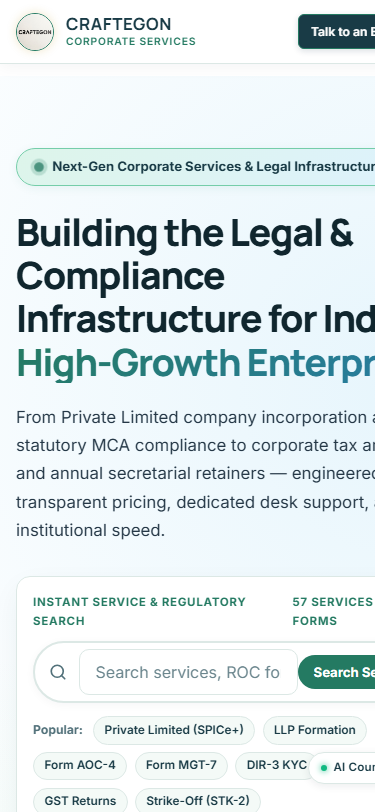
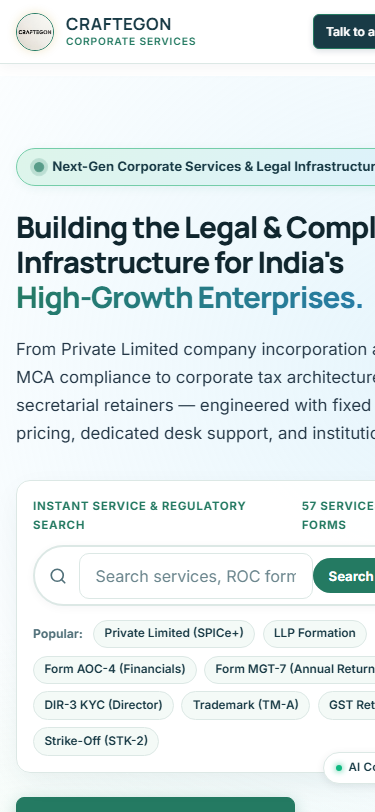
ER

Changed region(s): [[0.0293, 0.2463, 1.0, 1.0], [0.792, 0.0, 1.0, 0.0616]]

diff --git a/assets/css/home-unique.css b/assets/css/home-unique.css
@@ -153,12 +153,21 @@
 
 .hero-headline {
   font-family: var(--font-heading, 'Manrope', sans-serif);
-  font-size: clamp(2.35rem, 4.4vw, 3.5rem);
+  font-size: clamp(1.85rem, 4.4vw, 3.5rem);
   font-weight: 800;
   color: var(--navy-900, #10262E);
-  line-height: 1.15;
+  line-height: 1.18;
   letter-spacing: -0.035em;
   margin: 0 0 1.25rem;
+  overflow-wrap: break-word;
+  word-break: normal;
+}
+
+@media (max-width: 480px) {
+  .hero-headline {
+    font-size: 1.72rem;
+    line-height: 1.22;
+  }
 }
 
 .hero-headline-accent {
@@ -313,15 +322,15 @@
   100% { transform: translate(-50%, -50%) translateZ(-80px) scale(1.15); opacity: 0.9; }
 }
 
-/* 3D Isometric Rotating Governance Cube */
+/* 3D Isometric Rotating Governance Cube (Positioned in Top-Left Quadrant to prevent badge collisions) */
 .geo-cube-container {
   position: absolute;
-  top: 25px;
-  right: 25px;
-  width: 70px;
-  height: 70px;
+  top: 10px;
+  left: 15px;
+  width: 60px;
+  height: 60px;
   transform-style: preserve-3d;
-  transform: translateZ(60px);
+  transform: translateZ(65px);
 }
 
 .geo-cube-3d {
@@ -339,20 +348,20 @@
 
 .cube-face {
   position: absolute;
-  width: 70px;
-  height: 70px;
+  width: 60px;
+  height: 60px;
   background: rgba(221, 245, 234, 0.45);
   border: 1.5px solid var(--accent-mint-vibrant, #75CDA9);
   backdrop-filter: blur(4px);
   box-shadow: 0 0 12px rgba(117, 205, 169, 0.3);
 }
 
-.face-front  { transform: translateZ(35px); }
-.face-back   { transform: rotateY(180deg) translateZ(35px); }
-.face-right  { transform: rotateY(90deg) translateZ(35px); }
-.face-left   { transform: rotateY(-90deg) translateZ(35px); }
-.face-top    { transform: rotateX(90deg) translateZ(35px); }
-.face-bottom { transform: rotateX(-90deg) translateZ(35px); }
+.face-front  { transform: translateZ(30px); }
+.face-back   { transform: rotateY(180deg) translateZ(30px); }
+.face-right  { transform: rotateY(90deg) translateZ(30px); }
+.face-left   { transform: rotateY(-90deg) translateZ(30px); }
+.face-top    { transform: rotateX(90deg) translateZ(30px); }
+.face-bottom { transform: rotateX(-90deg) translateZ(30px); }
 
 /* Central 3D Corporate Vault Card */
 .vault-card-3d {
@@ -533,8 +542,8 @@
 
 /* Chip 1: Top-Right (Z: 85px) */
 .chip-top-right {
-  top: 15px;
-  right: -25px;
+  top: 25px;
+  right: -15px;
   transform: translateZ(85px);
   border: 1.5px solid var(--accent-sky-vibrant, #79C5E8);
   animation: floatChip1 5s ease-in-out infinite alternate;
@@ -553,7 +562,7 @@
 /* Chip 2: Bottom-Left (Z: 75px) */
 .chip-bottom-left {
   bottom: 25px;
-  left: -35px;
+  left: -25px;
   transform: translateZ(75px);
   border: 1.5px solid var(--accent-mint-vibrant, #75CDA9);
   animation: floatChip2 6s ease-in-out infinite alternate 0.5s;
@@ -569,10 +578,10 @@
   100% { transform: translateZ(75px) translateY(12px); }
 }
 
-/* Chip 3: Bottom-Right (Z: 95px) */
+/* Chip 3: Bottom-Right (Z: 95px) - Elevated to prevent overlap with floating chat widget */
 .chip-bottom-right {
-  bottom: -15px;
-  right: -10px;
+  bottom: 40px;
+  right: -15px;
   transform: translateZ(95px);
   border: 1.5px solid rgba(36, 122, 98, 0.4);
   animation: floatChip3 5.5s ease-in-out infinite alternate 1s;
@@ -589,9 +598,33 @@
 }
 
 @media (max-width: 992px) {
-  .chip-top-right { right: 5px; top: 10px; }
-  .chip-bottom-left { left: 0px; bottom: 20px; }
-  .chip-bottom-right { right: 10px; bottom: -10px; }
+  .chip-top-right { right: 8px; top: 15px; }
+  .chip-bottom-left { left: 8px; bottom: 25px; }
+  .chip-bottom-right { right: 8px; bottom: 30px; }
+}
+
+@media (max-width: 480px) {
+  .hero-3d-stage {
+    height: 330px;
+    max-width: 100%;
+    overflow: hidden;
+  }
+  .scene-3d {
+    max-width: 310px;
+    height: 290px;
+  }
+  .vault-card-3d {
+    width: 280px;
+    padding: 1.15rem;
+  }
+  .chip-3d {
+    padding: 0.35rem 0.65rem;
+    font-size: 0.72rem;
+  }
+  .chip-top-right { right: 6px; top: 8px; }
+  .chip-bottom-left { left: 6px; bottom: 12px; }
+  .chip-bottom-right { right: 6px; bottom: 16px; }
+  .geo-cube-container { display: none; }
 }
 
 /* ==========================================================================

diff --git a/index.html b/index.html
@@ -486,9 +486,9 @@
                 <span class="front-chips-label">Popular:</span>
                 <a href="/services/pvt-ltd-registration.html" class="front-chip-tag">Private Limited (SPICe+)</a>
                 <a href="/services/llp-registration.html" class="front-chip-tag">LLP Formation</a>
-                <a href="/services/form-aoc4.html" class="front-chip-tag">Form AOC-4</a>
-                <a href="/services/form-mgt7.html" class="front-chip-tag">Form MGT-7</a>
-                <a href="/services/dir3-kyc.html" class="front-chip-tag">DIR-3 KYC</a>
+                <a href="/services/form-aoc4.html" class="front-chip-tag">Form AOC-4 (Financials)</a>
+                <a href="/services/form-mgt7.html" class="front-chip-tag">Form MGT-7 (Annual Return)</a>
+                <a href="/services/dir3-kyc.html" class="front-chip-tag">DIR-3 KYC (Director)</a>
                 <a href="/services/trademark-registration.html" class="front-chip-tag">Trademark (TM-A)</a>
                 <a href="/services/gst-annual.html" class="front-chip-tag">GST Returns</a>
                 <a href="/services/form-stk2-strike-off.html" class="front-chip-tag">Strike-Off (STK-2)</a>
@@ -531,7 +531,7 @@
                   <div class="vault-brand">
                     <div class="vault-icon-badge" aria-hidden="true">&sect;</div>
                     <div>
-                      <h2 class="vault-title" style="font-size:0.95rem; margin:0;">CraftEgon Corporate Desk</h2>
+                      <div class="vault-title" style="font-size:0.95rem; margin:0; font-weight:700;">CraftEgon Corporate Desk</div>
                       <p class="vault-subtitle">Statutory Compliance Vault</p>
                     </div>
                   </div>
@@ -918,7 +918,7 @@
             </div>
 
             <p style="font-size:0.82rem; color:var(--text-secondary); margin:0; line-height:1.5;">
-              Includes 2 Director Identification Numbers (DIN), Digital Signature Certificates (DSC), SPICe+ MCA filing, PAN, TAN, and corporate bank account introduction.
+              Includes 2 Director Identification Numbers (DIN), Digital Signature Certificates (DSC), SPICe+ MCA filing, PAN, TAN, and corporate bank account introduction. <span style="display:block; margin-top:0.35rem; font-size:0.75rem; color:var(--text-muted);">*Government statutory fees are indicative for standard MCA capital tiers. State stamp duty varies by state of incorporation (e.g., &#8377;1,000 to &#8377;5,000+).</span>
             </p>
           </div>
 
@@ -1038,7 +1038,7 @@
         <div class="statutory-box">
           <div class="statutory-seal-icon" aria-hidden="true">&#9878;</div>
           <div class="statutory-text-content">
-            <h4 id="statutory-heading">Professional Standards &amp; Regulatory Boundaries</h4>
+            <h2 id="statutory-heading" style="font-size:1.15rem; font-weight:800; margin:0 0 0.5rem; color:var(--navy-900);">Professional Standards &amp; Regulatory Boundaries</h2>
             <p>
               CraftEgon Corporate Services (CCS) is a corporate compliance and business infrastructure advisory service. CraftEgon is not an advocate law firm and does not provide formal court litigation services. All statutory corporate filings on MCA V3, tax attestations, and audit certifications are performed exclusively in coordination with independent, qualified Chartered Accountants (CAs), Company Secretaries (CS), and licensed Legal Practitioners.
             </p>

diff --git a/assets/css/navbar.css b/assets/css/navbar.css
@@ -1002,7 +1002,7 @@
   .brand-subtitle { font-size: 0.64rem; }
 }
 
-@media (max-width: 380px) {
+@media (max-width: 500px) {
   .btn-talk-expert { display: none; }
   .brand-title { font-size: 0.98rem; }
   .brand-subtitle { font-size: 0.62rem; }
